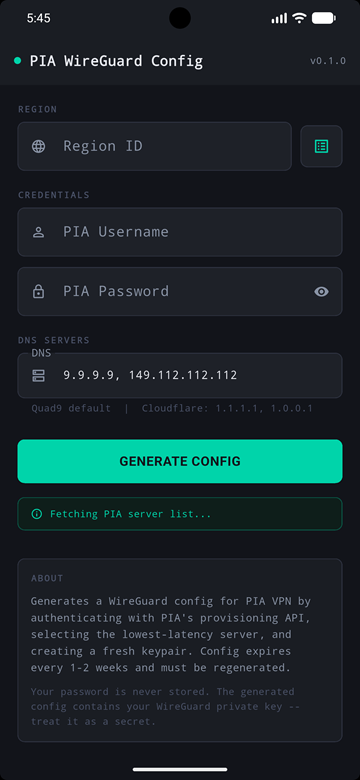
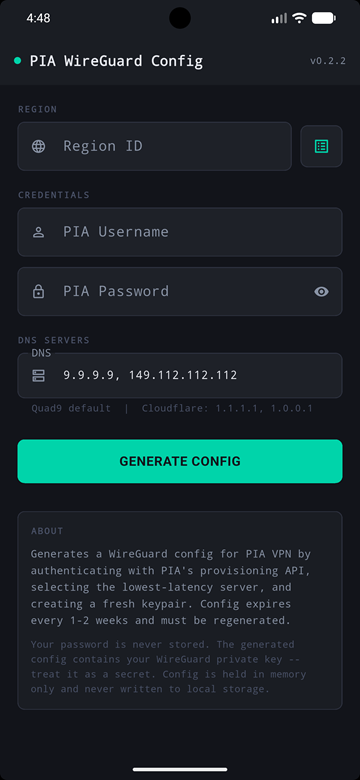
v0.2.3 moved versioning to pubspec.yaml, updated README, added dart run to release.yaml, updated screenshots, updated to do

diff --git a/lib/main.dart b/lib/main.dart
@@ -1,22 +1,15 @@
 // main.dart
 // PIA WireGuard Config Generator -- Flutter Android APK
 // GUI equivalent of https://github.com/ExponentiallyDigital/pia-wireguard-cfg
-//
-// Security hardening v0.2.0:
-//   1. No permanent filesystem writes -- config held in memory only
-//   2. Clear button wipes credentials and config from RAM + UI
-//   3. Hardened input fields (no autocorrect, no suggestions, no clipboard on password)
-//   4. Auto-wipe safety timer (3 min), reset on any touch/type interaction
-//   5. FLAG_SECURE enforced in MainActivity.kt (no screenshots, blank recents preview)
 
 import 'dart:async';
 import 'package:flutter/material.dart';
 import 'package:flutter/services.dart';
 import 'package:share_plus/share_plus.dart';
 import 'pia_service.dart';
-
-// Removed imports: dart:io, path_provider
-// path_provider and dart:io are no longer needed -- all file I/O removed.
+import 'dart:io';
+import 'package:path_provider/path_provider.dart';
+import 'package:package_info_plus/package_info_plus.dart';
 
 void main() {
   runApp(const PiaWgApp());
@@ -98,10 +91,7 @@ class _MainScreenState extends State<MainScreen> {
   bool _loading = false;
   bool _loadingRegions = false;
   String _status = '';
-
-  // [CHANGE 1] Removed: String? _savedPath  -- no more filesystem write path to track.
-  String? _generatedConfig; // volatile in-memory only; never written to disk
-
+  String? _generatedConfig;
   List<Region> _regions = [];
 
   // [CHANGE 4] Safety auto-wipe timer state
@@ -111,9 +101,7 @@ class _MainScreenState extends State<MainScreen> {
 
   @override
   void dispose() {
-    // [CHANGE 4] Always cancel the timer on widget teardown to prevent leaks/crashes
     _wipeTimer?.cancel();
-
     _usernameCtrl.dispose();
     _passwordCtrl.dispose();
     _regionCtrl.dispose();
@@ -125,9 +113,6 @@ class _MainScreenState extends State<MainScreen> {
     if (mounted) setState(() => _status = s);
   }
 
-  // ---------------------------------------------------------------------------
-  // [CHANGE 2] Clear session -- wipes credentials, config, and timer from RAM + UI
-  // ---------------------------------------------------------------------------
   void _clearSession() {
     // Cancel any running timer first
     _wipeTimer?.cancel();
@@ -273,26 +258,21 @@ class _MainScreenState extends State<MainScreen> {
     }
   }
 
-  // ---------------------------------------------------------------------------
-  // [CHANGE 1] Share via system Share Sheet using XFile.fromData
-  // No temp file written to disk -- bytes passed directly through the
-  // share_plus runtime memory stream. Physical file existence is scoped
-  // entirely to the duration of the OS share pipeline.
-  // ---------------------------------------------------------------------------
   Future<void> _shareConfig() async {
     if (_generatedConfig == null) return;
     final region = _regionCtrl.text.trim();
     final filename = 'pia-$region.conf';
+    // Write to a named temp file so the OS share pipeline sees the correct
+    // filename. The file is deleted immediately after share() returns,
+    // keeping the no-persistent-storage guarantee.
+    final dir = await getTemporaryDirectory();
+    final tempFile = File('${dir.path}/$filename');
 
     try {
-      final bytes = Uint8List.fromList(_generatedConfig!.codeUnits);
-
+      await tempFile.writeAsString(_generatedConfig!, flush: true);
       await SharePlus.instance.share(
         ShareParams(
-          // XFile.fromData passes raw bytes -- no path written to storage.
-          files: [
-            XFile.fromData(bytes, name: filename, mimeType: 'text/plain')
-          ],
+          files: [XFile(tempFile.path, mimeType: 'text/plain')],
           subject: filename,
           text: 'PIA WireGuard config for region: $region',
         ),
@@ -300,6 +280,10 @@ class _MainScreenState extends State<MainScreen> {
     } catch (e) {
       if (!mounted) return;
       _showError('Could not share file: $e');
+    } finally {
+      // Always delete the temp file whether share succeeded, failed, or
+      // was dismissed -- existence is scoped to this method's execution.
+      if (await tempFile.exists()) await tempFile.delete();
     }
   }
 
@@ -343,8 +327,6 @@ class _MainScreenState extends State<MainScreen> {
   // ---------------------------------------------------------------------------
   @override
   Widget build(BuildContext context) {
-    // [CHANGE 4] Wrap entire scaffold in a Listener so any pointer event
-    // (touch, drag, stylus) resets the safety wipe countdown.
     return Listener(
       onPointerDown: _onUserInteraction,
       behavior: HitTestBehavior.translucent,
@@ -375,14 +357,30 @@ class _MainScreenState extends State<MainScreen> {
               ),
             ],
           ),
-          actions: const [
+          actions: [
             Padding(
-              padding: EdgeInsets.only(right: 16),
-              child: Text(
-                'v0.2.2',
-                style: TextStyle(
-                  color: Color(0xFF8892A4),
-                  fontSize: 11,
+              padding: const EdgeInsets.only(right: 16),
+              child: Center(
+                child: FutureBuilder<PackageInfo>(
+                  future: PackageInfo.fromPlatform(),
+                  builder: (context, snapshot) {
+                    if (snapshot.hasData) {
+                      return Text(
+                        'v${snapshot.data!.version}',
+                        style: const TextStyle(
+                          color: Color(0xFF8892A4),
+                          fontSize: 11,
+                        ),
+                      );
+                    }
+                    return const Text(
+                      'v...',
+                      style: TextStyle(
+                        color: Color(0xFF8892A4),
+                        fontSize: 11,
+                      ),
+                    );
+                  },
                 ),
               ),
             ),

diff --git a/macos/Flutter/GeneratedPluginRegistrant.swift b/macos/Flutter/GeneratedPluginRegistrant.swift
@@ -5,8 +5,10 @@
 import FlutterMacOS
 import Foundation
 
+import package_info_plus
 import share_plus
 
 func RegisterGeneratedPlugins(registry: FlutterPluginRegistry) {
+  FPPPackageInfoPlusPlugin.register(with: registry.registrar(forPlugin: "FPPPackageInfoPlusPlugin"))
   SharePlusMacosPlugin.register(with: registry.registrar(forPlugin: "SharePlusMacosPlugin"))
 }

diff --git a/README.md b/README.md
@@ -13,7 +13,11 @@ Manually creating a PIA WireGuard configuration requires authenticating against 
 - **Automated lowest-latency server selection:** measures live TCP latency against port 1337 across all available servers in your selected target region, ensuring you always provision against the fastest node.
 - **Cryptographically secure keypair generation:** dynamically generates an ephemeral WireGuard keypair using `x25519` with proper RFC 7748 scalar clamping directly inside the runtime environment.
 - **Dynamic certificate pinning:** fetches PIA's trusted root CA certificate dynamically at runtime from the `pia-foss/manual-connections` repository. No hardcoded certificates ensure operations continue smoothly even if PIA rotates authority roots.
+- **Zero-persistence local footprint:** sensitive keys, usernames, and passwords reside exclusively as short-lived volatile variables inside system RAM (`AppState`). Config payloads are written to a named temporary file solely to preserve the correct filename through the OS share pipeline, then deleted immediately in a `finally` block once `share()` returns -- whether the share completes, is cancelled, or throws. No unencrypted files are permanently cached or retained in local storage.
 - **Credential safety:** your PIA password is entered interactively at execution and used strictly to request a short-lived HTTP Basic Auth provisioning token. Credentials are never written to disk, stored, or logged.
+- **Automatic session self-destruct:** includes an automatic 3-minute safety countdown timer. If the app is left idle for 3 continuous minutes while displaying a configuration, the screen UI, form states, and memory addresses are completely wiped. Active screen interactions automatically reset the clock back to a full 3 minutes.
+- **Native Task-Switcher Protection (`FLAG_SECURE`):** Enforces native OS-level window flags to block third-party screenshot capturing and automatically obfuscates/blanks the app layout view inside the Android Recent Apps / Task Switcher interface.
+- **Input field hardening:** user credential entry textboxes disable predictive dictionary caching, auto-correction tracking assistance, and keyboard learning behaviors, alongside native selection overrides to block background clipboard scraping.
 - **Modern adaptive styling:** fully supports Android 8.0+ Adaptive Icons using a native multi-layered presentation conforming to a dark-mode theme aesthetic (`#12141A`).
 - **Android permissions:** none are requested/required.
 
@@ -29,12 +33,15 @@ Each release contains a compiled, production-ready `.zip` archive containing:
 ## Interface
 
 App screen:
+
 ![Screenshot: pia-wireguard-cfga UI](./images/interface.png)
 
 Filterable region selection:
+
 ![Screenshot: region selection](./images/region-selection.png)
 
 Generated config file:
+
 ![Screenshot: generated config](./images/generated-config.png)
 
 ## Build setup
@@ -43,8 +50,8 @@ If you prefer to compile and test the application locally, follow the configurat
 
 ### Prerequisites
 
-- **Flutter SDK:** version 3.10 or later ([Flutter Installation Guide](https://flutter.dev/docs/get-started/install))
-- **Android SDK / Studio:** ([download](https://developer.android.com/studio) and configure with Java Development Kit (JDK 17), install Android SDK Command-line Tools too (check your config with `flutter doctor`)
+- **Flutter SDK:** version 3.10 or later ([Flutter installation guide](https://flutter.dev/docs/get-started/install))
+- **Android SDK / Studio:** [download Android Studio](https://developer.android.com/studio) and configure with Java Development Kit (JDK 17), also install Android SDK Command-line Tools and check your config with `flutter doctor`
 - A connected physical Android device (with USB Debugging enabled) or an active Android Virtual Device (AVD) Emulator.
 
 ### 1. Install dependencies
@@ -122,14 +129,14 @@ PersistentKeepalive = 25
 AllowedIPs          = 0.0.0.0/0
 ```
 
-## Output
+## Output & session destruction
 
-The generated config is:
+The generated configuration data lifecycle is managed under a high-security paradigm:
 
-- Displayed in the app for review.
-- Auto-saved to the app's documents directory (only accessible by the app itself).
-- Shareable via Android's share sheet (use "Save to Files", send via email, etc.).
-- Copyable to the clipboard.
+- **Ephemeral verification:** displayed on-screen inside an obscured text viewport for instant validation.
+- **Transient streaming:** shareable seamlessly using Android's system share sheet (e.g., via "Save to Files" or encrypted side-channels) via localized memory stream descriptors.
+- **Manual clear:** the "Clear" action button scrubs the username, password, and displayed config on screen data.
+- **Safety timeout clock:** adjacent to the "Clear" action button, a real-time countdown widget tracks session idle state, executing a complete memory and view scrub if the application interface goes completely untouched for 3 consecutive minutes.
 
 ## Notes
 
@@ -139,18 +146,17 @@ The generated config is:
 
 ## Package dependencies
 
-| Package         | Purpose                                        |
-| --------------- | ---------------------------------------------- |
-| `http`          | HTTP calls to PIA APIs                         |
-| `x25519`        | WireGuard keypair generation                   |
-| `path_provider` | App documents directory                        |
-| `share_plus`    | Share/save config file via Android share sheet |
+| Package             | Purpose                                                                                  |
+| ------------------- | ---------------------------------------------------------------------------------------- |
+| `http`              | HTTP REST connection pipelines to PIA APIs                                               |
+| `x25519`            | Ephemeral WireGuard keypair generation                                                   |
+| `share_plus`        | Share/save config file via Android share sheet                                           |
+| `package_info_plus` | Querying app package metadata dynamically from `pubspec.yaml` to unify version reporting |
 
 ## Development "to do" list
 
-1. Refactor versioning (currently in 2 places)
-2. Full security audit
-3. Release to Play Store
+1. Full external app security audit
+2. Release to Play Store
 
 ## Contributing
 